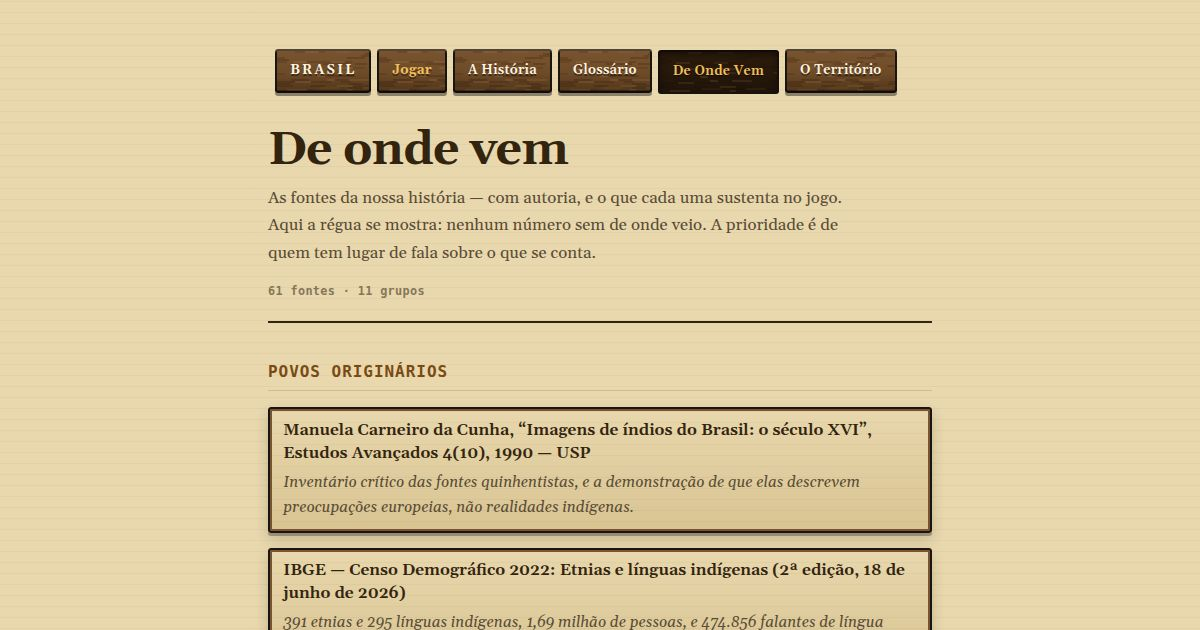
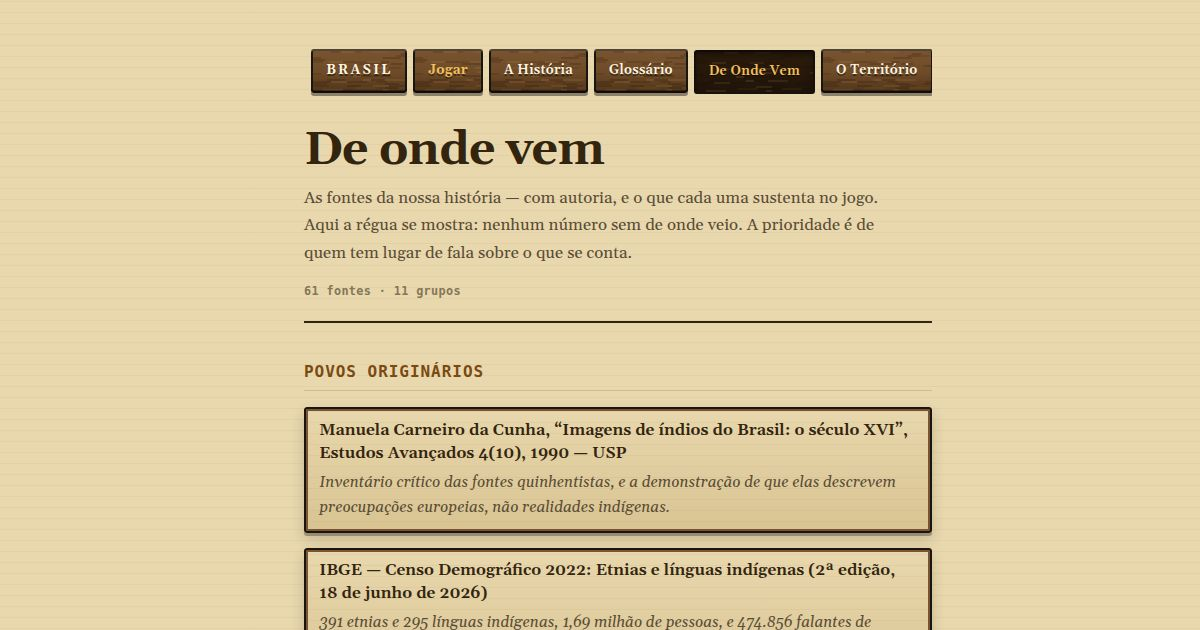
Cartão de link: a margem esquerda do molde deixa de morder o título no recorte quadrado
Item cartao-margem-esquerda. Medido hoje nas três páginas que passam por
cartao-secao.js: o <h1> nasce em x=268 (caixa de ".env", idêntica nas três) e a
primeira tábua da barra em x=275 — as duas antes do x=285 onde WhatsApp/Twitter
cortam o recorte QUADRADO centrado (285..915 de um 1200x630). "A história"
saía "\história", "O glossário" perdia o arco do O, "De onde vem" saía "e onde
vem". cartao-secao.js passa a empurrar `.env` para a direita SÓ no print (mesmo
mecanismo do GRAO_FORA e da fonte embutida — nenhum byte da página publicada
muda) e a medir a posição REAL do título e da tábua depois disso, recusando a
geração se a folga não sobrar (falha fechada, não silenciosa).

Mordida provada por injeção: CARTAO_MARGEM_DEFEITO=1 desliga só a correção e
as 3 páginas saem RECUSADAS (exit 1); sem a variável, saem OK com folga de
~19-23 px sobre o corte (exit 0). test/cartao-controle.js (49/49) e
test/cartao-quadro-controle.js seguem verdes; npm test cheio rodado uma vez,
verde.

Desmentido, não confirmado: a claim herdada de "idêntico nos quatro" não se
sustenta para o território — o dele usa outro molde (x=27, não x=268) e o
defeito lá é mais severo (o <h1> some inteiro do recorte, não só a letra
inicial). Fora do território desta entrega (gerar-territorio.js); registrado
no relatório para o item cartao-decepa-primeira-tabua, que segue livre e é
quem cobre aquele arquivo.

Claude-Session: https://claude.ai/code/session_01KeBzM6pgahLMtfX6V6SV41

diff --git a/ferramentas/cartao-secao.js b/ferramentas/cartao-secao.js
@@ -47,6 +47,25 @@
 //       mede LARGURA DE AVANÇO, não CSS — a única prova possível de qual glifo saiu.
 //       Nenhum byte de `<secao>/index.html` muda por causa disto.
 //
+//   (g) A MARGEM ESQUERDA DO MOLDE, e o que o recorte QUADRADO do WhatsApp/Twitter faz com
+//       ela (arte, 03/09 — item cartao-margem-esquerda). O card de 1200×630 não é só assim
+//       que ele é mostrado: em vários lugares (pré-visualização em círculo, cartão de perfil,
+//       algumas dobras do feed) o cliente recorta um QUADRADO CENTRADO — x de (LARGURA-ALTURA)/2
+//       até LARGURA-(LARGURA-ALTURA)/2, ou seja 285..915 nesta medida. Medido nas três páginas
+//       publicadas em 03/09: o `<h1>` nasce em x=268/270/271 e a caixa da primeira tábua da
+//       barra nasce em x=275 — as três, porque as três compartilham o MESMO `.env{max-width:
+//       44rem;margin:0 auto;padding:2.6rem 1.25rem 5rem}` do molde (não é a tipografia: o
+//       Gelasio muda a LARGURA do título, não a ORIGEM da caixa). Isso é ANTES de 285: o
+//       recorte quadrado morde a primeira letra do título e a moldura da primeira tábua.
+//       Este arquivo não edita `.env` — não é dele, é de `gerar-historia.js`/`gerar-
+//       glossario.js`/`gerar-fontes.js`. O que ele faz, no mesmo lugar onde já faz o GRAO_FORA
+//       e a fonte embutida (EM MEMÓRIA, só no print, nenhum byte da página publicada muda), é
+//       empurrar esse contêiner para a direita o bastante para sobreviver ao recorte, com uma
+//       folga contra antialiasing/arredondamento — e DEPOIS medir a posição REAL (não o CSS
+//       pedido) do título e da primeira tábua, para reprovar se a correção não pegar (troca de
+//       nome de classe no molde, por exemplo — falha FECHADA, não silenciosa).
+//       NÃO CONFUNDIR com a decisão de serifa (fechada): a régua aqui é ESPAÇO, não fonte.
+//
 // E o print sai a `deviceScaleFactor: 1` de propósito: a 2 ele sairia 2400×1260 e desmentiria
 // as tags `og:image:width`/`height` que o próprio gerador escreve.
 const { chromium } = require('playwright');
@@ -112,6 +131,28 @@ const KB_MAX = 300;
 // quatro seções. Uma textura nova entrando no papel derruba aquele portão, não este arquivo.
 const GRAO_FORA = ':root{--graoPx:none!important}';
 
+// ---- (g) A MARGEM ESQUERDA — ver o item (g) no comentário do topo do arquivo ----
+//
+// O NÚMERO NÃO É REDIGITADO: `MARGEM_SEGURA` sai da MESMA conta que produz o "285..915" do
+// item cartao-margem-esquerda — (LARGURA-ALTURA)/2 — porque é assim que um recorte quadrado
+// centrado nasce de um retângulo 1200×630. Se `LARGURA`/`ALTURA` mudarem um dia, esta conta
+// muda junto, em vez de ficar um "285" solto que ninguém lembra de onde veio.
+const MARGEM_SEGURA = Math.round((LARGURA - ALTURA) / 2); // 285
+// A FOLGA é colchão, não frouxidão: compensa a variação de até ~3 px entre glifos (o "A" e o
+// "O" não têm o mesmo avanço à esquerda dentro da própria caixa, medido em 03/09) e o
+// arredondamento do próprio recorte quadrado feito por cada cliente (não são todos px-exatos).
+const MARGEM_FOLGA = 12;
+// A CORREÇÃO, só no print (mesmo mecanismo do GRAO_FORA e da fonte embutida acima: entra em
+// memória, na página já carregada, e nenhum byte de `<secao>/index.html` muda por causa dela).
+// Empurra o `.env` — o contêiner centralizado do molde das três páginas de leitura — para a
+// direita: valor ABSOLUTO (não "+X" sobre o padding que já existe), para não depender de
+// quanto esse padding vale hoje, que não é deste arquivo. Medido: com este valor o título
+// nasce a partir de x≈298 nas três páginas (ver test/cartao-margem-controle.js) — folga real
+// acima de MARGEM_SEGURA+MARGEM_FOLGA=297. Se o seletor `.env` um dia deixar de existir no
+// molde, esta regra não morde nada (CSS solto não quebra build) — e é por isso que a posição
+// REAL é MEDIDA e cobrada logo abaixo, em vez de confiar só nesta injeção.
+const MARGEM_CSS = '.env{padding-left:56px!important}';
+
 // As tags do <head>, montadas de uma vez para nenhuma seção esquecer metade delas. A URL vem
 // SEMPRE da BASE de ferramentas/dominio.js — endereço escrito à mão numa tag og: é o jeito
 // clássico de a prévia quebrar quando o domínio muda, e em silêncio.
@@ -153,8 +194,10 @@ async function tirar(dir, op) {
     // e um respiro para o primeiro layout com as fontes já trocadas
     await pg.waitForTimeout(250);
 
-    // ---- (b) fora do print: o interruptor da medição, tudo o que flutua, e o grão ----
-    const escondidos = await pg.evaluate((graoFora) => {
+    // ---- (b) fora do print: o interruptor da medição, tudo o que flutua, o grão — e (g) a
+    // margem esquerda, exceto quando CARTAO_MARGEM_DEFEITO pede para ela ficar fora (mutante) ----
+    const margemCss = process.env.CARTAO_MARGEM_DEFEITO ? '' : MARGEM_CSS;
+    const escondidos = await pg.evaluate((cfg) => {
       let n = 0;
       document.querySelectorAll('.med').forEach((e) => { e.style.display = 'none'; n++; });
       document.querySelectorAll('body *').forEach((e) => {
@@ -162,17 +205,20 @@ async function tirar(dir, op) {
         if (p === 'fixed' || p === 'sticky') { e.style.display = 'none'; n++; }
       });
       // O grão de 2 px sai SÓ do print (ver GRAO_FORA lá em cima: 183 -> 93 KB). A página não
-      // muda; o que muda é a foto dela.
+      // muda; o que muda é a foto dela. A margem esquerda (g) viaja no MESMO elemento de estilo.
       const st = document.createElement('style');
-      st.textContent = graoFora;
+      st.textContent = cfg.graoFora + cfg.margemCss;
       document.head.appendChild(st);
       window.scrollTo(0, 0);
       return n;
-    }, GRAO_FORA);
+    }, { graoFora: GRAO_FORA, margemCss: margemCss });
 
     const cena = await pg.evaluate(() => {
       const h1 = document.querySelector('h1');
       const r = h1 ? h1.getBoundingClientRect() : null;
+      // (g) a primeira tábua da barra — sempre a marca "BRASIL" (chrome-plataforma.js).
+      const tabua = document.querySelector('.barra a');
+      const rt = tabua ? tabua.getBoundingClientRect() : null;
       // Um botão só conta se ALGUM pixel dele cai dentro do quadro do print.
       const dentro = (b) => b.width > 0 && b.height > 0
         && b.bottom > 0 && b.top < innerHeight && b.right > 0 && b.left < innerWidth;
@@ -183,6 +229,10 @@ async function tirar(dir, op) {
         titulo: h1 ? h1.textContent.trim() : null,
         topo: r ? Math.round(r.top) : null,
         base: r ? Math.round(r.bottom) : null,
+        // (g) posição REAL do título e da primeira tábua — não o CSS pedido, o retângulo que
+        // o layout realmente produziu depois da correção (ou da falta dela, no mutante).
+        esquerda: r ? Math.round(r.left) : null,
+        tabuaEsquerda: rt ? Math.round(rt.left) : null,
         // AS FAMÍLIAS QUE DE FATO CHEGARAM. `document.fonts` é o conjunto de @font-face que a
         // página conhece — vazio quando a folha do Google não veio. Só entram as que estão
         // `loaded`: uma que ficou em `unloaded` é uma que o navegador nunca desenhou.
@@ -206,6 +256,23 @@ async function tirar(dir, op) {
       throw new Error('RECUSADO: o título "' + cena.titulo + '" não cabe no quadro do cartão (topo '
         + cena.topo + ', base ' + cena.base + ' de ' + ALTURA + ' px) — o cartão mostraria um miolo'
         + ' sem nome. Se algo novo entrou acima do cabeçalho, ele tem de caber junto.');
+    }
+    // (g) A MARGEM ESQUERDA — o recorte QUADRADO centrado que WhatsApp/Twitter usam corta em
+    // x=MARGEM_SEGURA de cada lado. Título ou primeira tábua nascendo antes disso é a mesma
+    // "mordida" que o item cartao-decepa-primeira-tabua descreveu, medida por RETÂNGULO real
+    // (não pelo CSS pedido), então uma correção que pare de morder (troca de classe no molde,
+    // por exemplo) reprova aqui em vez de publicar um cartão mordido em silêncio.
+    if (cena.esquerda !== null && cena.esquerda < MARGEM_SEGURA) {
+      throw new Error('RECUSADO: o título "' + cena.titulo + '" nasce em x=' + cena.esquerda
+        + ' — antes do recorte QUADRADO centrado que WhatsApp/Twitter usam (corta em x='
+        + MARGEM_SEGURA + '..' + (LARGURA - MARGEM_SEGURA) + '). A primeira letra sairia mordida'
+        + ' nesse recorte. Confira MARGEM_CSS e o `.env` do molde da página.');
+    }
+    if (cena.tabuaEsquerda !== null && cena.tabuaEsquerda < MARGEM_SEGURA) {
+      throw new Error('RECUSADO: a primeira tábua da barra nasce em x=' + cena.tabuaEsquerda
+        + ' — antes do recorte QUADRADO centrado (corta em x=' + MARGEM_SEGURA + '..'
+        + (LARGURA - MARGEM_SEGURA) + '). A moldura da tábua sairia mordida nesse recorte.'
+        + ' Confira MARGEM_CSS e o `.env` do molde da página.');
     }
     if (cena.botoes.length) {
       throw new Error('RECUSADO: controle visível dentro do quadro do cartão — ' + cena.botoes[0]
@@ -329,10 +396,10 @@ async function tirar(dir, op) {
         + kb.toFixed(0) + ' KB — fora da faixa de ' + KB_MIN + ' a ' + KB_MAX + ' KB');
     }
     return { kb: kb, titulo: cena.titulo, escondidos: escondidos, topo: cena.topo, base: cena.base,
-      fixados: troca, fonte: TIPO.FAMILIA };
+      esquerda: cena.esquerda, tabuaEsquerda: cena.tabuaEsquerda, fixados: troca, fonte: TIPO.FAMILIA };
   } finally {
     await nav.close();
   }
 }
 
-module.exports = { LARGURA, ALTURA, QUALIDADE, KB_MIN, KB_MAX, tags, tirar };
+module.exports = { LARGURA, ALTURA, QUALIDADE, KB_MIN, KB_MAX, MARGEM_SEGURA, tags, tirar };
